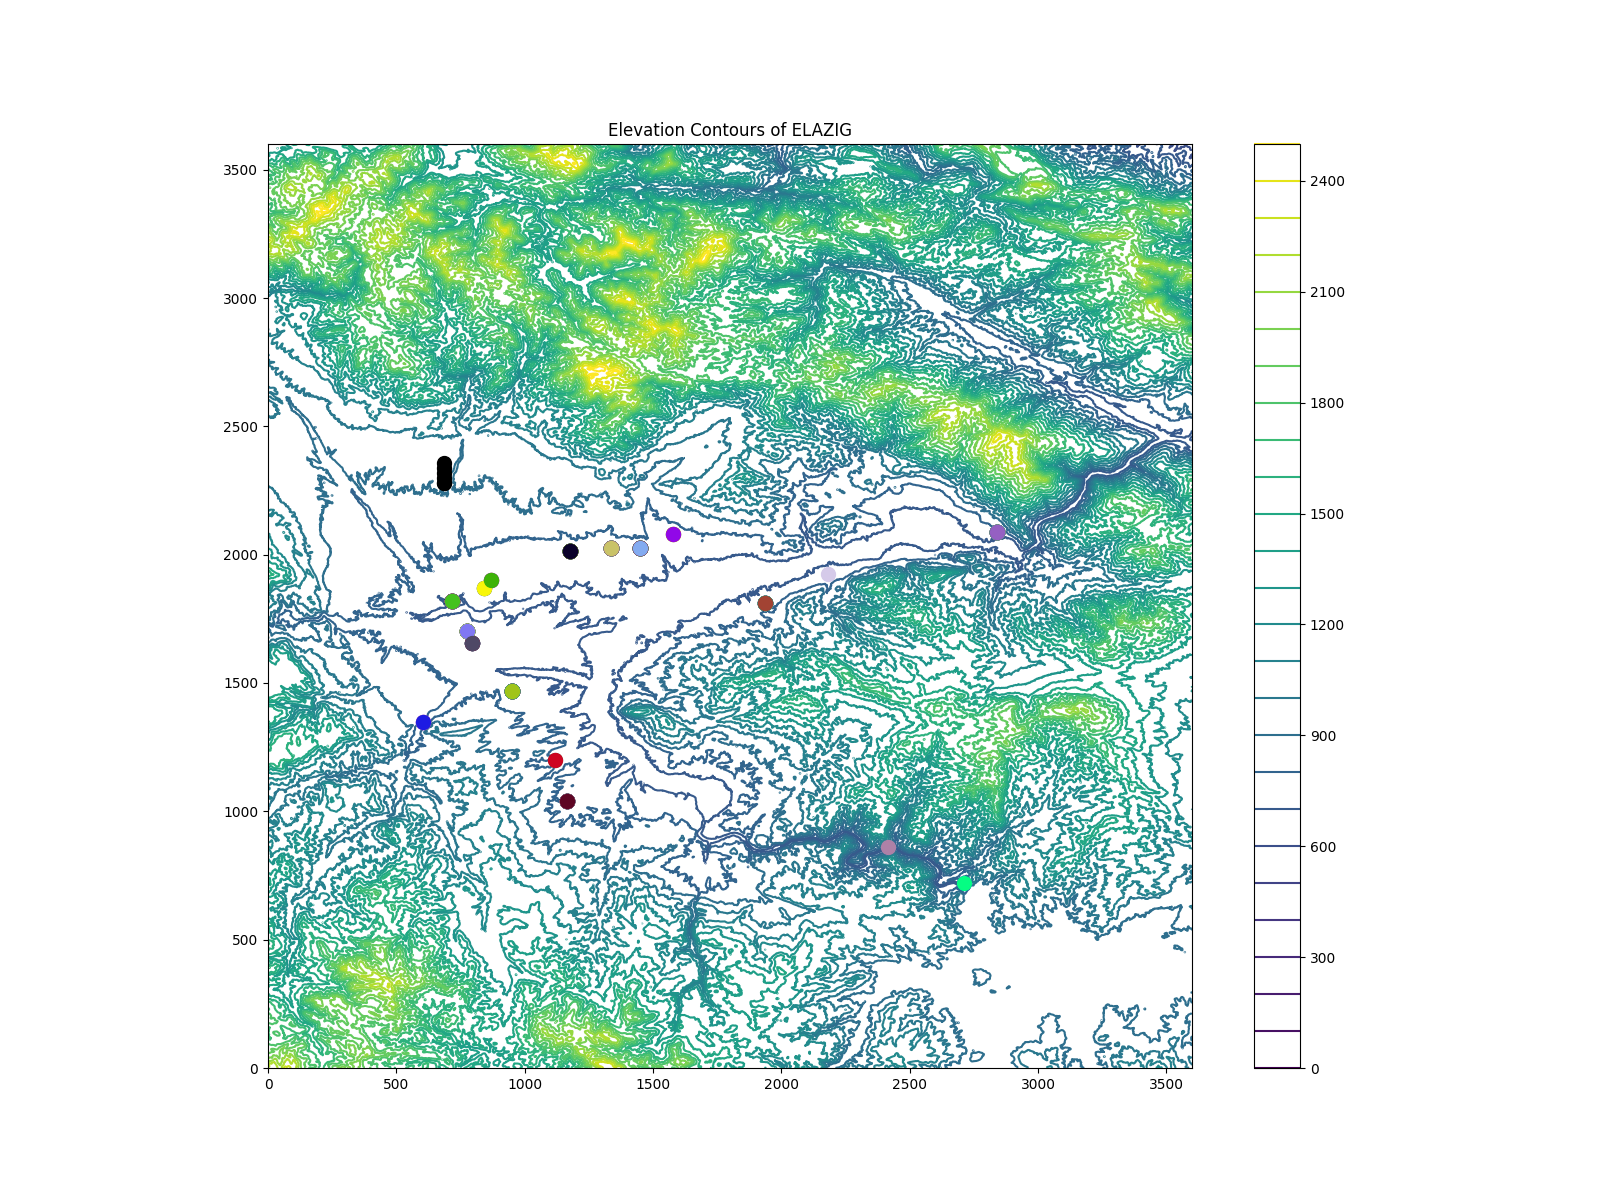
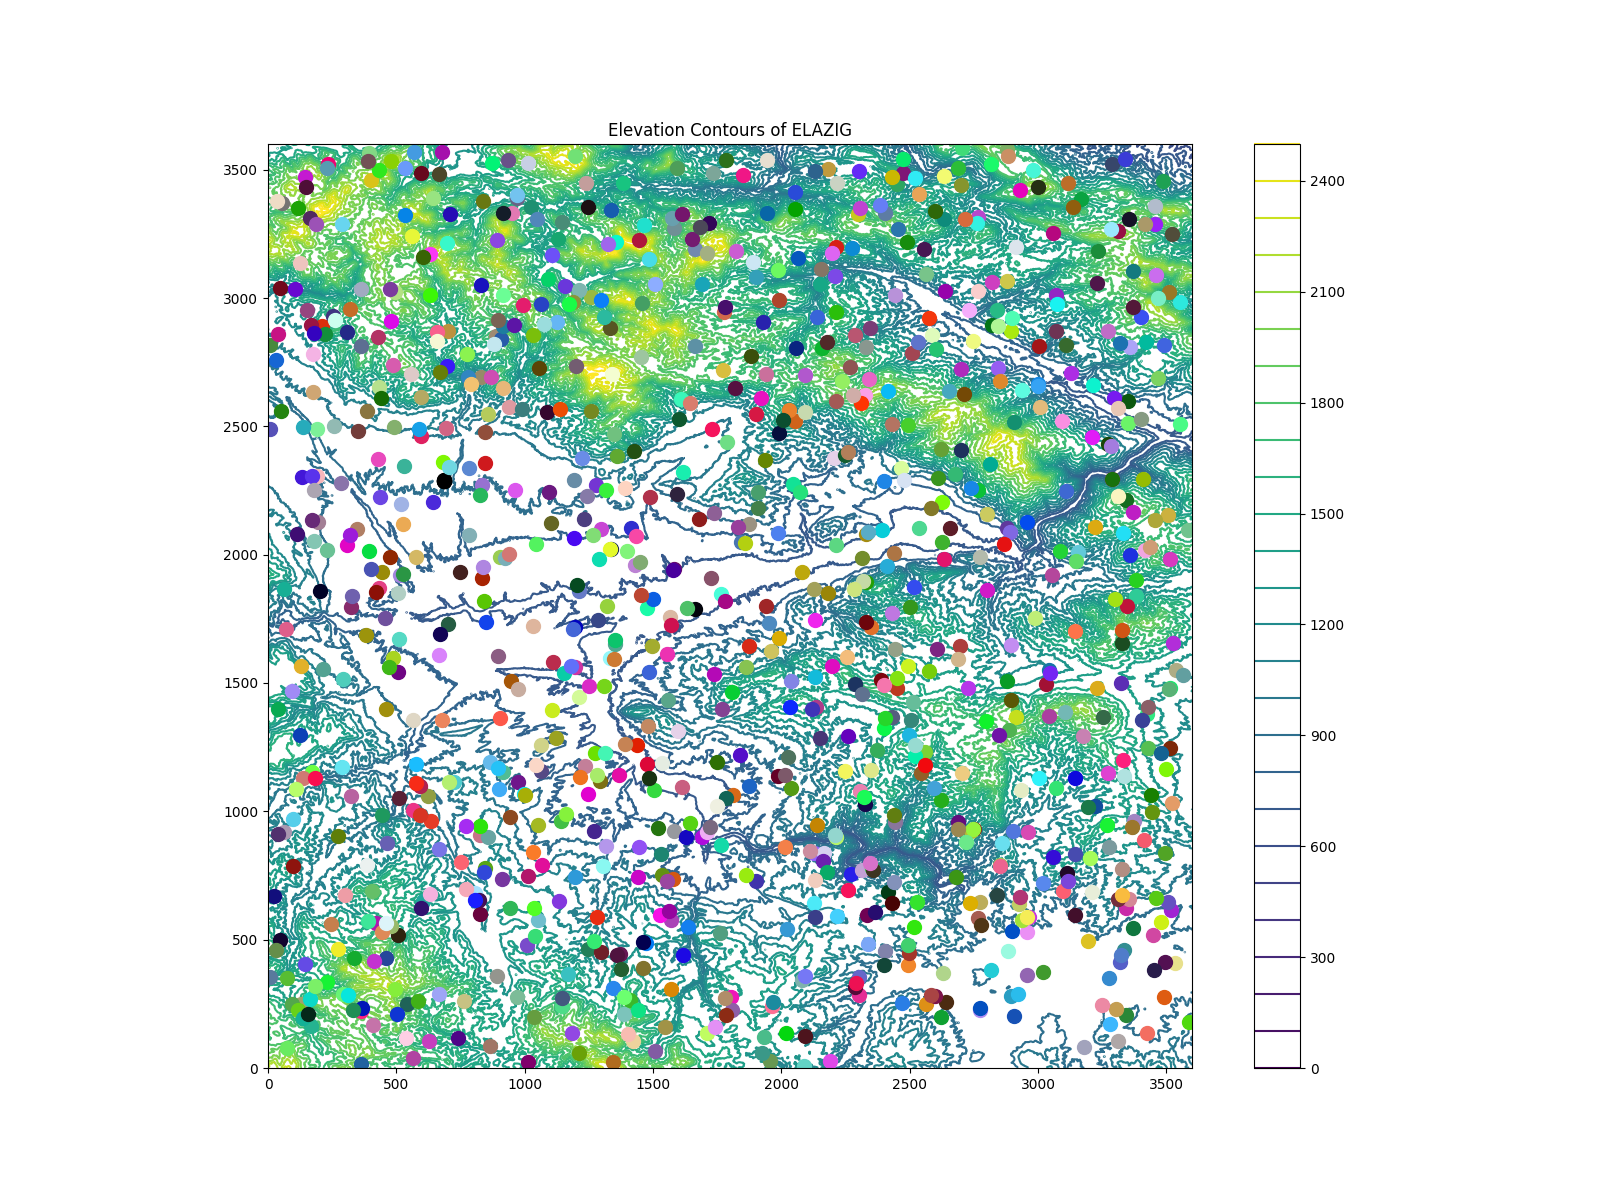
Bulduk la

Changed region(s): [[0.1562, 0.1233, 0.75, 0.8942], [0.1562, 0.2158, 0.1875, 0.2467]]

diff --git a/Studies/emre/particlefy/particle.py b/Studies/emre/particlefy/particle.py
@@ -59,7 +59,7 @@ class Particle():
         self.y_list = []
         self.x_list.append(x)
         self.y_list.append(y)
-        self.measurement_sigma = 3
+        self.measurement_sigma = 15
         self.sum_prob = 0
         self.movement_sigma = 30
     def move(self,speed):
@@ -70,7 +70,7 @@ class Particle():
         #print(f"Hiz {speed}")
         #print(f"Mov. Sigma  {np.random.normal(speed, self.movement_sigma)}")
         self.y += np.random.normal(speed, self.movement_sigma) #* math.cos(self.theta)
-        self.x += (self.speed/scale) * math.sin(self.theta)
+        self.x = np.random.normal(self.x, self.movement_sigma) #* math.sin(self.theta)
 
          
         self.x_list.append(self.x)
@@ -110,7 +110,7 @@ class Particle():
             #print(self.weight)
         weight = self.probability_density_function(robot_height, self.height)
 
-        if counter%5 != 0:
+        if counter%10 != 0:
 
             self.weight += weight 
         
@@ -191,7 +191,7 @@ class Particle():
             weights += [particle.weight]
         best_particle = weights.index(max(weights))
         print("Error: " +
-              str(round(abs(particles[best_particle].height - height), 2)))
+              str(round(abs(particles[best_particle].y - y), 2)))
 
         print("Weight Sum: " + str(sum(weights)))
         print()

diff --git a/Studies/emre/main.py b/Studies/emre/main.py
@@ -77,7 +77,7 @@ if __name__ == "__main__":
 
             for i in range(len(particles)):
 
-                if (particles[i].y or particles[i].x) > 3600:
+                if particles[i].y >3600 or particles[i].x>3600 or particles[i].y<0 or particles[i].x <0:
 
 
                     pop_indexes += [i]
@@ -100,7 +100,7 @@ if __name__ == "__main__":
             pop_indexes=[]
             Particle.pdf_control(particles)
 
-            if counter%5 == 0 and counter != 0:
+            if counter%10 == 0 and counter != 0:
 
                 
                 print(f"Resample öncesi sayi {len(particles)}")
@@ -121,11 +121,12 @@ if __name__ == "__main__":
 
 
 
-        #TODO: Y ekseni ekle
-        #TODO: PDF Grafik ekle
-        #TODO: PDF düzgün mü göster
-        #TODO: Adım sayısını değiştir
-        #TODO: Movement and measure sigma değiştir
+        #TODO: Y ekseni ekle DONE
+        #TODO: PDF Grafik ekle DONE
+        #TODO: PDF düzgün mü göster DONE
+        #TODO: Adım sayısını değiştir #DONE
+        #TODO: Movement and measure sigma değiştir DONE
+        
         #TODO: Araca diğer ekseni ekleyebiliriz
         
 

diff --git a/Studies/emre/data/gif.py b/Studies/emre/data/gif.py
@@ -5,6 +5,6 @@ import os
 images = []
 for filename in glob.glob(os.path.join(r"C:\Users\emrea\Desktop\'22 codes\deep-ternaloc\deep-ternaloc\Studies\emre\data\plt_files",'*.png')):
     images.append(imageio.imread(filename))
-imageio.mimsave('movie5eniyi.gif', images,duration=1)
+imageio.mimsave('movie6eniyi.gif', images,duration=1)
 
 

diff --git a/Studies/emre/plotify/plot.py b/Studies/emre/plotify/plot.py
@@ -53,7 +53,7 @@ class Plotify():
         except:
             pass
 
-        if  cnt != 0:
+        if  cnt %5==0 and cnt !=0:
             plt.contour(data_array, cmap = "viridis", 
             levels = list(range(0, 2598, 100)))
         
